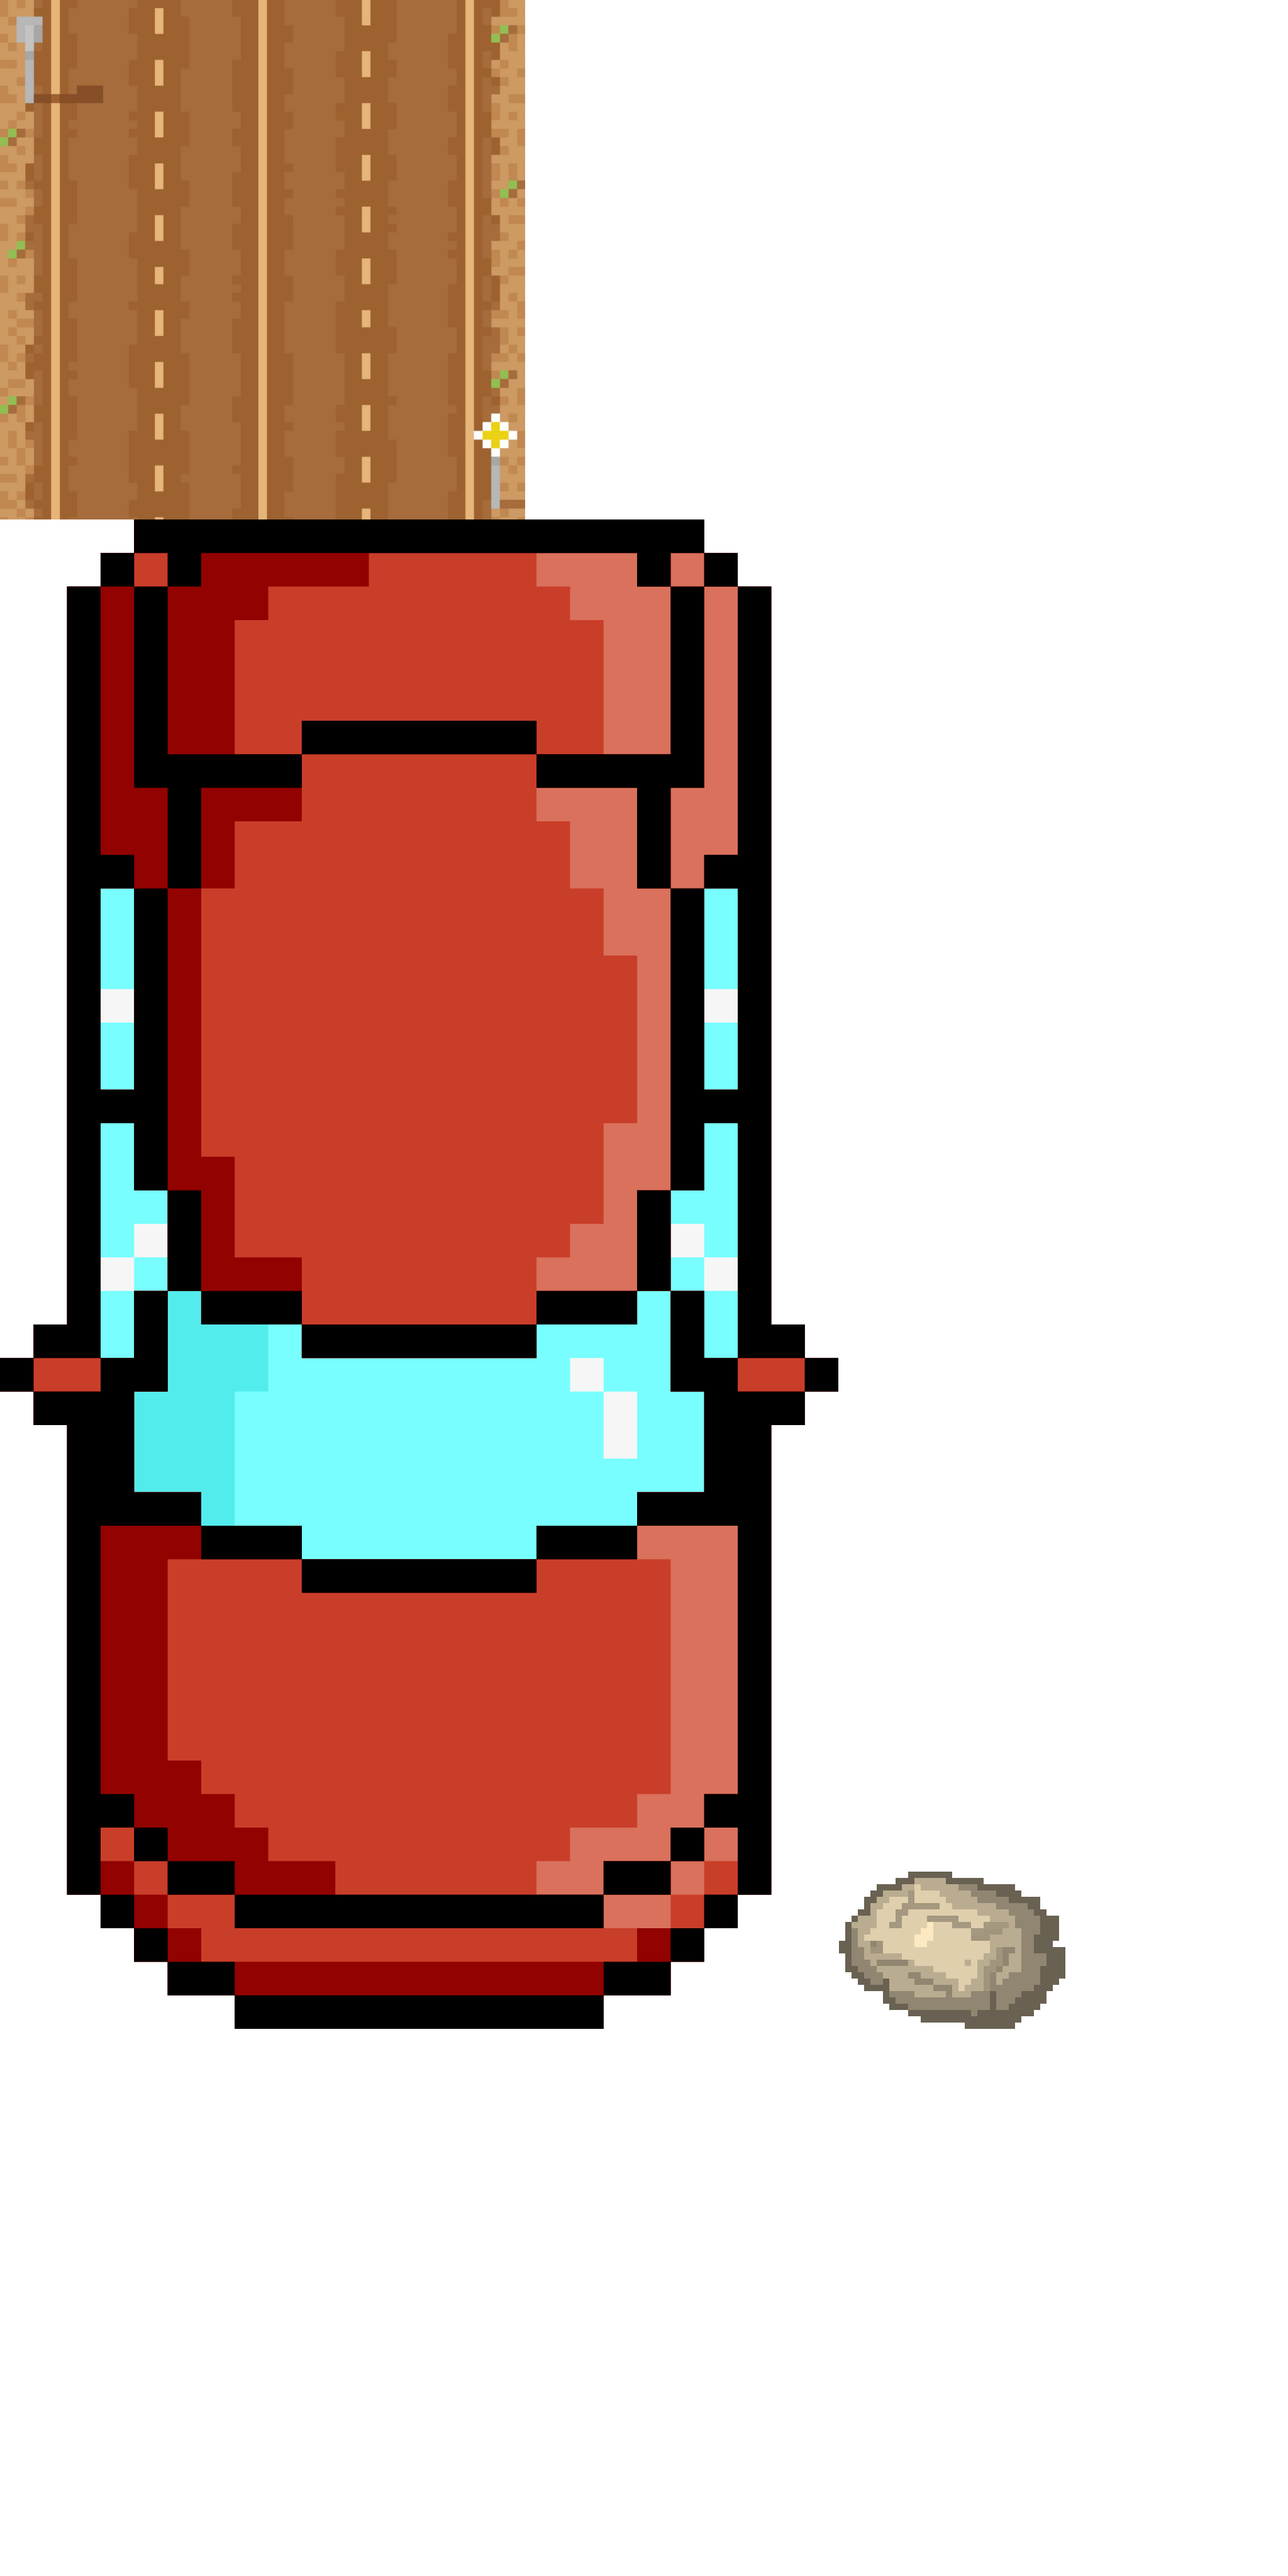
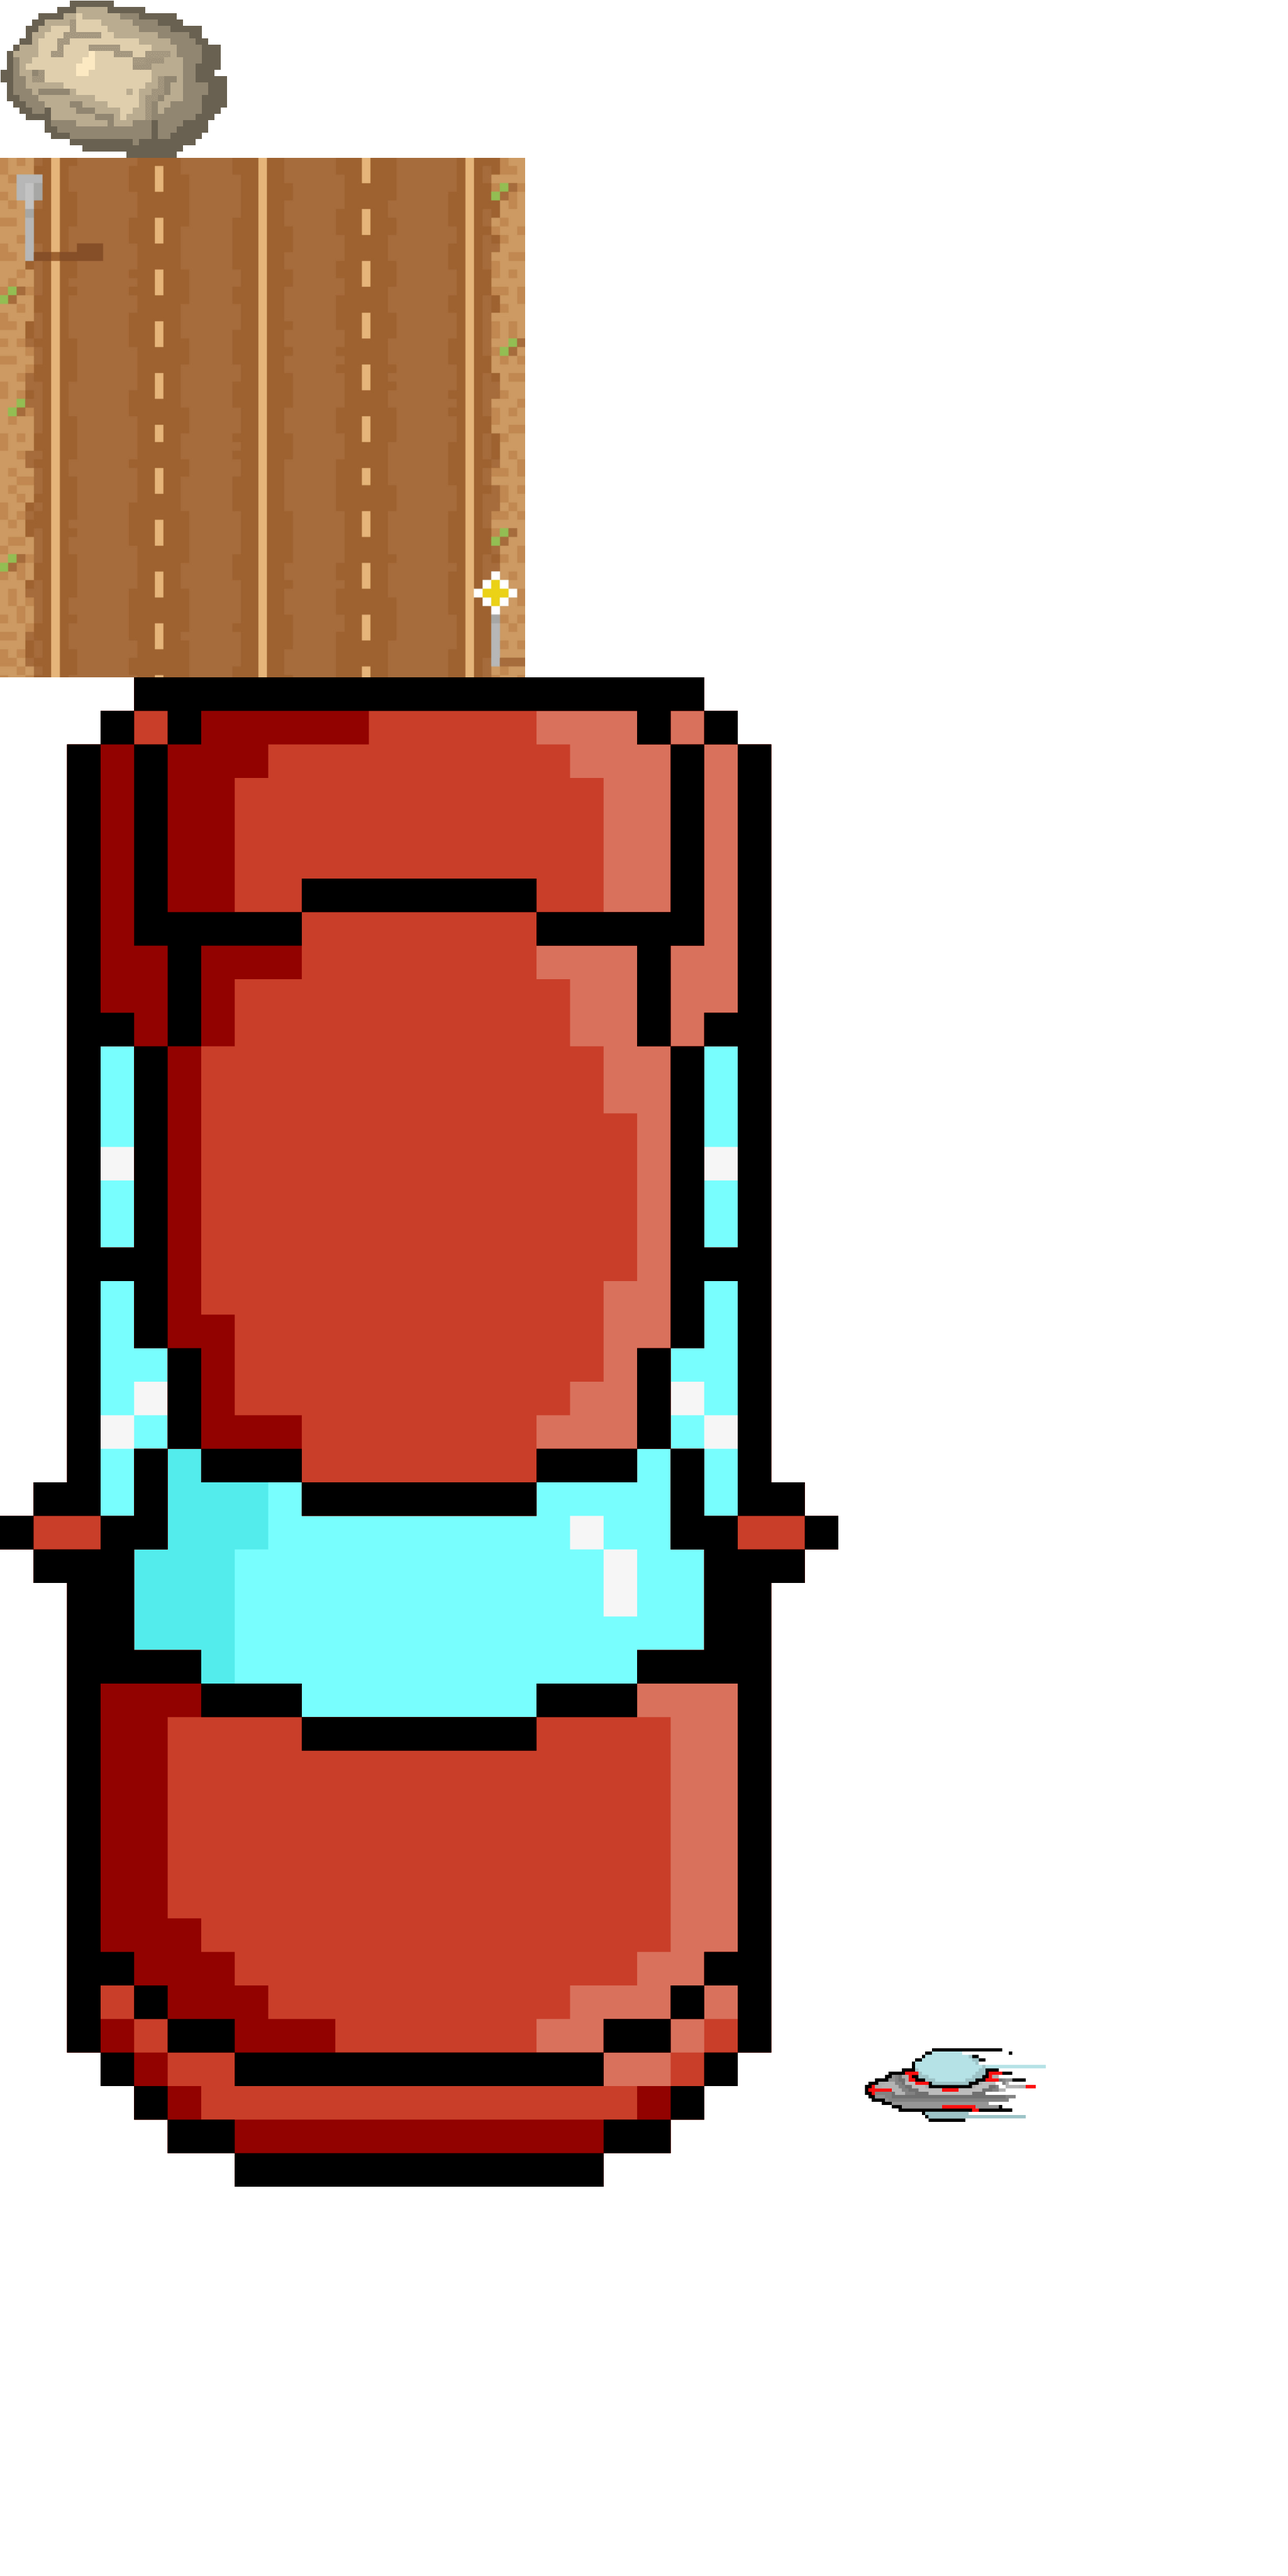
Added UFO flyby and keyboard input

Changed region(s): [[0.0, 0.0, 0.6562, 0.875], [0.6562, 0.7188, 0.8438, 0.8438], [0.0625, 0.0938, 0.0938, 0.125]]

diff --git a/core/src/com/racer/game/GameScreen.java b/core/src/com/racer/game/GameScreen.java
@@ -1,5 +1,7 @@
 package com.racer.game;
 
+import com.badlogic.gdx.Gdx;
+import com.badlogic.gdx.Input;
 import com.badlogic.gdx.Screen;
 import com.badlogic.gdx.graphics.Camera;
 import com.badlogic.gdx.graphics.OrthographicCamera;
@@ -16,16 +18,15 @@ import java.util.List;
 public class GameScreen implements Screen {
 
     // screen stuff
-    private Camera camera;
-    private Viewport viewport;
+    final private Camera camera;
+    final private Viewport viewport;
 
     // graphics
-    private SpriteBatch batch;
-    private TextureAtlas textureAtlas;
+    final private SpriteBatch batch;
+    final private TextureAtlas textureAtlas;
 
     private TextureRegion[] backgrounds;
-    private TextureRegion playerCarTextureRegion, rockTextureRegion;
-
+    private TextureRegion playerCarTextureRegion, rockTextureRegion,ufoTextureRegion;
 
     // timing stuff
     private float[] backgroundOffsets={0};
@@ -38,7 +39,7 @@ public class GameScreen implements Screen {
     // game objects
     //private Rock rock1;
     private List<Rock> rocks;
-
+    private Ufo ufo;
     private Car car;
 
 
@@ -52,13 +53,16 @@ public class GameScreen implements Screen {
         backgrounds = new TextureRegion[1];
         backgrounds[0] = textureAtlas.findRegion("sandRoad");
 
+
         backgroundMaxScrollingSpeed = ((float)WORLD_HEIGHT)/2;
 
         // initialize texture regions
         rockTextureRegion = textureAtlas.findRegion("rock1");
         playerCarTextureRegion = textureAtlas.findRegion("redCar");
-        playerCarTextureRegion.flip(false,true);
+        ufoTextureRegion = textureAtlas.findRegion("ufo");
 
+        playerCarTextureRegion.flip(false,true);
+        ufoTextureRegion.flip(true,false);
 
         // game objects setup
         rocks = new ArrayList<Rock>();
@@ -67,8 +71,8 @@ public class GameScreen implements Screen {
         rocks.add(new Rock(WORLD_HEIGHT*1/4,12,12,rockTextureRegion,WORLD_WIDTH,WORLD_HEIGHT));
         rocks.add(new Rock(0,12,12,rockTextureRegion,WORLD_WIDTH,WORLD_HEIGHT));
 
-        car = new Car(2,WORLD_WIDTH/2,WORLD_HEIGHT*1/6,12,18,playerCarTextureRegion);
-
+        car = new Car(90,WORLD_WIDTH/2,WORLD_HEIGHT*1/6,12,18,playerCarTextureRegion);
+        ufo = new Ufo(-WORLD_WIDTH*2,WORLD_HEIGHT*4/6,35,35,WORLD_HEIGHT,WORLD_WIDTH,ufoTextureRegion);
 
         batch = new SpriteBatch();
     }
@@ -76,6 +80,8 @@ public class GameScreen implements Screen {
     @Override
     public void render(float deltaTime) {
         batch.begin();
+
+        detectInput(deltaTime);
 
         // background
         renderBackground(deltaTime);
@@ -89,13 +95,49 @@ public class GameScreen implements Screen {
         car.draw(batch);
 
 
-
-        // speed effect
+        // other effects
+        ufo.draw(batch,backgroundMaxScrollingSpeed,deltaTime);
 
         // explosions
 
 
+        detectColision();
+
         batch.end();
+    }
+
+    private void detectInput(float deltaTime) {
+        // keyboard
+        float leftLimit,rightLimit;
+        leftLimit = -car.getBoundingBox().x;
+        rightLimit = WORLD_WIDTH - car.getBoundingBox().x - car.width;
+
+        if(Gdx.input.isKeyPressed(Input.Keys.RIGHT) && rightLimit>0)
+        {
+            float xChange = car.movementSpeed*deltaTime;
+            xChange = Math.min(xChange,rightLimit);
+            car.translate(xChange,0f);
+        }
+
+        if(Gdx.input.isKeyPressed(Input.Keys.LEFT) && leftLimit<0)
+        {
+            float xChange = car.movementSpeed*deltaTime;
+            xChange = Math.max(xChange,leftLimit);
+            car.translate(-xChange,0f);
+        }
+
+        //touch
+
+    }
+
+    private void detectColision()
+    {
+        for (Rock rock: rocks) {
+            if(car.touchesRock(rock.getBoundingBox()))
+            {
+                System.out.println("Player hits rock");
+            }
+        }
     }
 
     private void renderBackground(float deltaTime){

diff --git a/core/src/com/racer/game/Ufo.java b/core/src/com/racer/game/Ufo.java
@@ -1,0 +1,42 @@
+package com.racer.game;
+
+import com.badlogic.gdx.graphics.g2d.Batch;
+import com.badlogic.gdx.graphics.g2d.TextureRegion;
+
+public class Ufo {
+
+    // position & dimension
+    // (lower-left corner)
+    float xPosition,yPosition;
+    float width,height;
+
+    int WORLD_HEIGHT;
+    int WORLD_WIDTH;
+
+    // graphics information
+    TextureRegion ufoTextureRegion;
+
+    public Ufo(float xPosition, float yPosition, float width, float height, int WORLD_HEIGHT, int WORLD_WIDTH, TextureRegion ufoTextureRegion) {
+        this.xPosition = xPosition;
+        this.yPosition = yPosition;
+        this.width = width;
+        this.height = height;
+        this.WORLD_HEIGHT = WORLD_HEIGHT;
+        this.WORLD_WIDTH = WORLD_WIDTH;
+        this.ufoTextureRegion = ufoTextureRegion;
+    }
+
+
+
+    public void draw(Batch batch, float backgroundMaxScrollingSpeed, float deltaTime)
+    {
+        this.xPosition += deltaTime * backgroundMaxScrollingSpeed*2;
+
+        if(this.xPosition-this.height > WORLD_WIDTH*24)
+        {
+            this.xPosition = 0-this.width;
+        }
+
+        batch.draw(ufoTextureRegion,xPosition,yPosition,width,height);
+    }
+}

diff --git a/core/src/com/racer/game/Rock.java b/core/src/com/racer/game/Rock.java
@@ -2,6 +2,7 @@ package com.racer.game;
 
 import com.badlogic.gdx.graphics.g2d.Batch;
 import com.badlogic.gdx.graphics.g2d.TextureRegion;
+import com.badlogic.gdx.math.Rectangle;
 
 import org.graalvm.compiler.word.Word;
 
@@ -37,7 +38,7 @@ public class Rock {
         this.WORLD_HEIGHT = WORLD_HEIGHT;
         this.WORLD_WIDTH = WORLD_WIDTH;
 
-        this.xPosition = GetRandomXPos();
+        this.xPosition = getRandomXPos();
         this.yPosition = WORLD_HEIGHT + yPositionInitialOffset;
 
     }
@@ -54,14 +55,19 @@ public class Rock {
         if(this.yPosition+this.height < 0)
         {
             this.yPosition = WORLD_HEIGHT;
-            this.xPosition = GetRandomXPos();
+            this.xPosition = getRandomXPos();
         }
 
         batch.draw(rockTextureRegion,xPosition,yPosition,width,height);
 
     }
 
-    private int GetRandomXPos()
+    public Rectangle getBoundingBox()
+    {
+        return new Rectangle(xPosition,yPosition,width,height);
+    }
+
+    private int getRandomXPos()
     {
         Random rand = new Random();
         int result = rand.nextInt(WORLD_WIDTH-(2*X_POS_PADDING));

diff --git a/core/src/com/racer/game/Car.java b/core/src/com/racer/game/Car.java
@@ -2,6 +2,7 @@ package com.racer.game;
 
 import com.badlogic.gdx.graphics.g2d.Batch;
 import com.badlogic.gdx.graphics.g2d.TextureRegion;
+import com.badlogic.gdx.math.Rectangle;
 
 public class Car {
     // car characteristics
@@ -22,6 +23,23 @@ public class Car {
         this.width = width;
         this.height = height;
         this.carTextureRegion = carTextureRegion;
+    }
+
+    public boolean touchesRock(Rectangle rockRectangle)
+    {
+        Rectangle carRect = new Rectangle(this.xPosition,this.yPosition,this.width,this.height);
+        return carRect.overlaps(rockRectangle);
+    }
+
+    public Rectangle getBoundingBox()
+    {
+        return new Rectangle(xPosition,yPosition,width,height);
+    }
+
+    public void translate(float xChange,float yChange)
+    {
+        xPosition+=xChange;
+        yPosition+=yChange;
     }
 
     public void draw(Batch batch)
